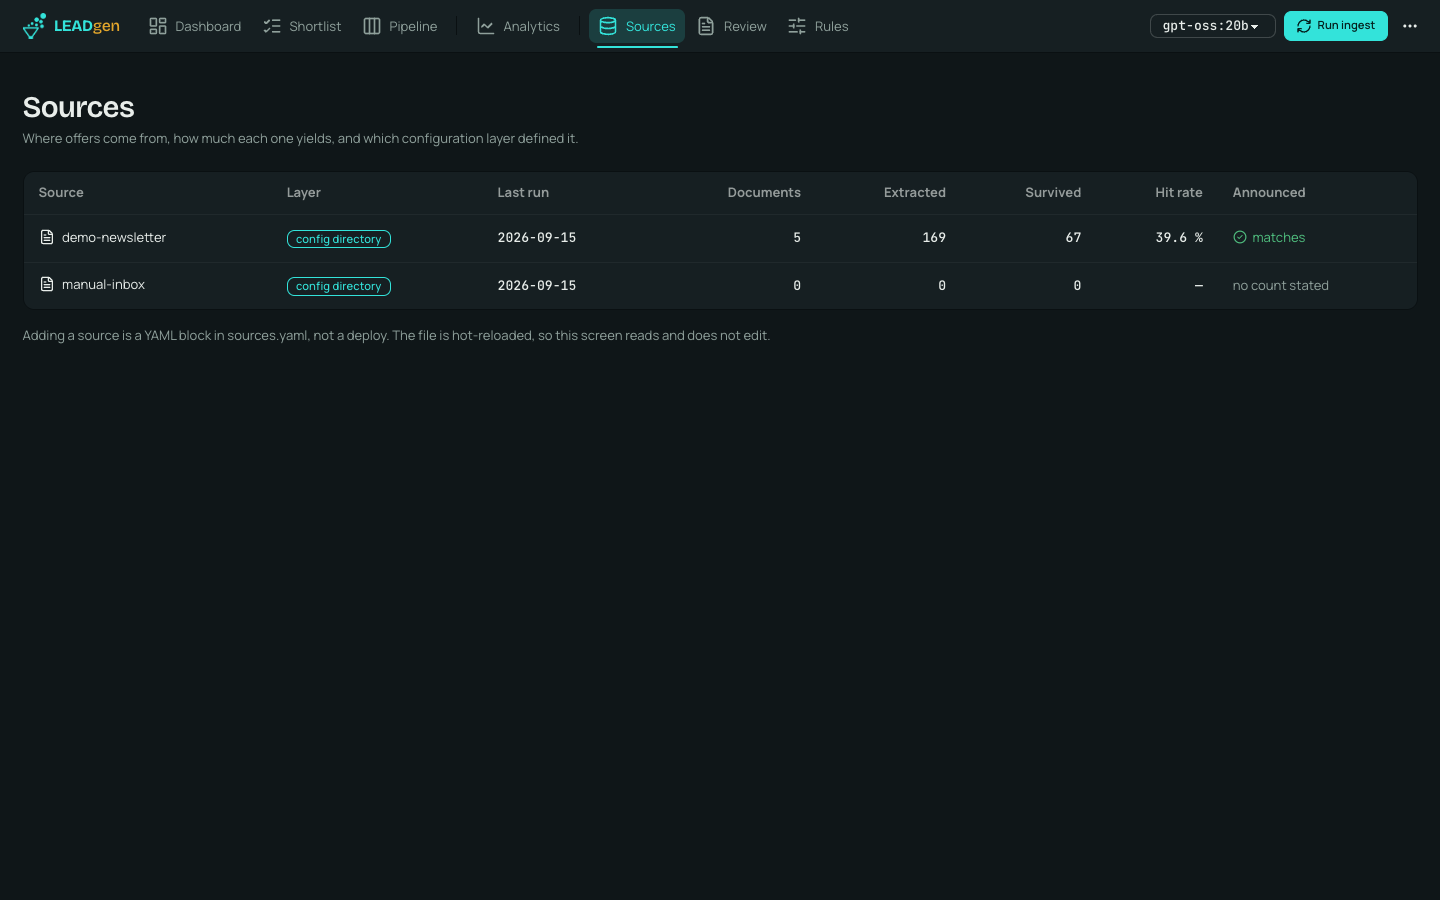
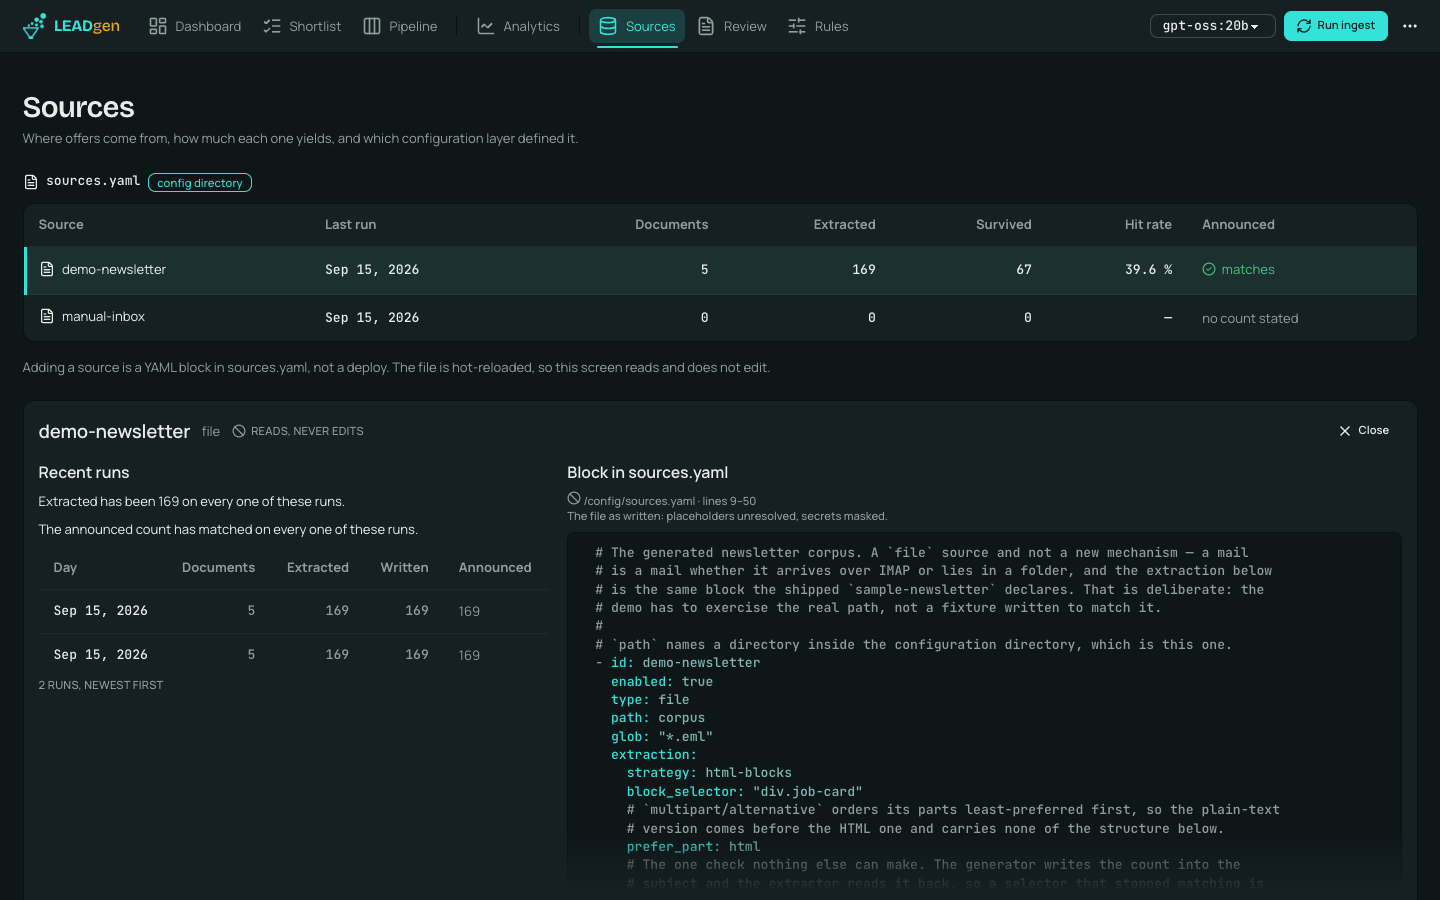
**chore:** Bump version to 0.3.1 and update related files 🏷
- Update application, backend, and frontend version to 0.3.1.
- Adjust tests, changelog, and configurations to align with version update.
- Fix inconsistent run badge rendering by adding proper null handling and annotation in JSON serialization.
- Improve layout responsiveness for the source panel and YAML block display.

diff --git a/frontend/src/app/features/sources/source-panel/source-panel.css b/frontend/src/app/features/sources/source-panel/source-panel.css
@@ -78,6 +78,13 @@
   text-align: right;
 }
 
+/* Measured on the panel: at 30rem the date wrapped to three lines and the Announced badge was
+   clipped at the column's edge. A date is one token. */
+.runs th[scope='row'],
+.runs .num {
+  white-space: nowrap;
+}
+
 /* The one event that gets an edge, on top of the badge that carries the words. Warning *text*
    and never `--color-warning`, which is a fill and fails AA below 24px. */
 .runs .diverged {
@@ -111,6 +118,32 @@
   border-radius: var(--radius-field);
   background-color: var(--color-base-200);
   white-space: pre;
+}
+
+/* `::ng-deep` because the block is injected through `[innerHTML]`: emulated encapsulation
+   stamps its attribute onto the elements the *template* declares, and a node highlight.js
+   wrote afterwards carries none — so `.yaml-text .hljs-attr` would compile to a selector that
+   matches nothing, silently. Measured exactly that way here: the classes were in the markup and
+   every one of them had the plain text's colour.
+
+   Scoped under `:host`, so this is still a component stylesheet and not a global one. The roles
+   are mapped for YAML rather than copied from the Markdown view: there a key and a string are
+   both "content", here the key is the structure and the value is what somebody came to read.
+   No ochre anywhere — it means "this survived the filter", and nothing here survived anything. */
+:host ::ng-deep .yaml-text .hljs-attr {
+  color: var(--color-primary);
+}
+
+:host ::ng-deep .yaml-text .hljs-string,
+:host ::ng-deep .yaml-text .hljs-literal,
+:host ::ng-deep .yaml-text .hljs-number {
+  color: var(--color-secondary);
+}
+
+:host ::ng-deep .yaml-text .hljs-comment,
+:host ::ng-deep .yaml-text .hljs-bullet,
+:host ::ng-deep .yaml-text .hljs-meta {
+  color: var(--lg-muted);
 }
 
 /* A clamp and a mask rather than a truncated string, so the text stays whole in the DOM and

diff --git a/frontend/src/app/features/sources/source-panel/source-panel.html b/frontend/src/app/features/sources/source-panel/source-panel.html
@@ -83,13 +83,15 @@
                   <tr [class.diverged]="row.run.missing !== null && row.run.missing !== 0">
                     <th scope="row" class="type-mono-data">{{ row.run.ranOn | lgDay }}</th>
                     <td class="type-mono-data num text-muted">{{ row.run.documents }}</td>
-                    <td class="type-mono-data num" [class.text-muted]="row.extractedDelta === 0">
+                    <td class="type-mono-data num"
+                        [class.text-muted]="row.extractedDelta === null || row.extractedDelta === 0">
                       {{ row.run.extracted }}
                       @if (row.extractedDelta !== null && row.extractedDelta !== 0) {
                         <span class="run-delta">{{ delta(row.extractedDelta) }}</span>
                       }
                     </td>
-                    <td class="type-mono-data num" [class.text-muted]="row.writtenDelta === 0">
+                    <td class="type-mono-data num"
+                        [class.text-muted]="row.writtenDelta === null || row.writtenDelta === 0">
                       {{ row.run.written }}
                       @if (row.writtenDelta !== null && row.writtenDelta !== 0) {
                         <span class="run-delta">{{ delta(row.writtenDelta) }}</span>

diff --git a/frontend/src/app/app.spec.ts b/frontend/src/app/app.spec.ts
@@ -21,7 +21,7 @@ describe('App', () => {
         const fixture = TestBed.createComponent(App);
         fixture.detectChanges();
 
-      httpMock.expectOne('/api/status').flush({application: 'lead-generation', version: '0.3.0'});
+      httpMock.expectOne('/api/status').flush({application: 'lead-generation', version: '0.3.1'});
         // The header asks for the models it may offer at the same time. Answered with one,
         // which is the shipped state: a single model is not a choice, so the select stays
         // hidden and only the run button is there.
@@ -36,7 +36,7 @@ describe('App', () => {
         await fixture.whenStable();
         fixture.detectChanges();
 
-      expect(fixture.nativeElement.textContent).toContain('lead-generation 0.3.0');
+      expect(fixture.nativeElement.textContent).toContain('lead-generation 0.3.1');
         httpMock.verify();
     });
 });

diff --git a/frontend/src/styles/tokens.css b/frontend/src/styles/tokens.css
@@ -105,10 +105,12 @@
 
   /* The sources panel: a fixed column for a source's run history, and how far its YAML block
      is folded. The history is fixed for the reason `--lg-list-w` is — five numeric columns
-     that would otherwise re-wrap on every monitor — and the clamp decides only *how far*, never
+     that would otherwise re-wrap on every monitor. 34rem and not 30: measured on the panel, at
+     30rem the day wrapped to three lines and the Announced badge was clipped at the column's
+     edge — and the clamp decides only *how far*, never
      *whether*: that is a line count the server sends, because a measured height is suspended in
      a backgrounded tab. */
-  --lg-runs-w: 30rem;
+  --lg-runs-w: 34rem;
   --lg-yaml-clamp: 24rem;
 
     /* Selection in a list. Not the accent: ochre means "this survived the filter" and nothing

diff --git a/frontend/src/app/features/sources/source-panel/source-panel.spec.ts b/frontend/src/app/features/sources/source-panel/source-panel.spec.ts
@@ -94,6 +94,13 @@ describe('SourcePanel', () => {
 
     expect(deltas.map((delta) => delta.textContent?.trim())).toContain('+12');
     expect(fixture.nativeElement.querySelectorAll('.runs tbody tr')).toHaveLength(3);
+
+    // The oldest row in the window has nothing before it, so it is not a change either — the
+    // edge of what was fetched is not an event, and ink there would read as one.
+    const cells: HTMLElement[] = Array.from(
+      fixture.nativeElement.querySelectorAll('.runs tbody tr:last-child td'),
+    );
+    expect(cells.filter((cell) => cell.classList.contains('text-muted')).length).toBeGreaterThan(1);
   });
 
   it('marks a run where the announced count disagreed, with the badge the table already uses', () => {

diff --git a/backend/src/test/java/de/codeministry/leadgen/config/SourceDetailServiceTest.java b/backend/src/test/java/de/codeministry/leadgen/config/SourceDetailServiceTest.java
@@ -23,6 +23,7 @@ import org.testcontainers.junit.jupiter.Testcontainers;
 import java.time.LocalDate;
 
 import static org.assertj.core.api.Assertions.assertThat;
+import static org.junit.jupiter.api.Assertions.assertDoesNotThrow;
 
 /**
  * One source, opened: what defines it, and when its numbers last moved.
@@ -45,6 +46,16 @@ class SourceDetailServiceTest {
 
     @Autowired
     private JdbcTemplate jdbc;
+
+    /**
+     * Built here rather than injected: this context has no `ObjectMapper` bean, and what is
+     * under test is the record's own annotation rather than anybody's mapper configuration.
+     * The time module is what a bare mapper is missing.
+     */
+    private final com.fasterxml.jackson.databind.ObjectMapper mapper =
+        com.fasterxml.jackson.databind.json.JsonMapper.builder()
+            .addModule(new com.fasterxml.jackson.datatype.jsr310.JavaTimeModule())
+            .build();
 
     @BeforeEach
     void clean() {
@@ -155,6 +166,24 @@ class SourceDetailServiceTest {
         assertThat(run.extracted()).isEqualTo(1289);
         assertThat(run.written()).isEqualTo(1280);
         assertThat(run.missing()).isZero();
+    }
+
+    @Test
+    void putsTheMissingCountOnTheWireAndNotOnlyInJava() {
+        // Jackson builds a record's JSON from its components, and `missing()` is a method — so
+        // it was absent from the answer, the browser read `undefined`, and the panel painted an
+        // "undefined missing" badge on every run where the count actually matched. Every
+        // hand-written fixture had supplied the field, which is exactly what a fixture cannot
+        // check. The assertion is therefore on the serialised form.
+        long id = source("manual-inbox");
+        ran(id, "2026-09-14", 5, 157, 157, 169);
+
+        var detail = details.detail("manual-inbox", 30).orElseThrow();
+        // The application's own mapper and not a bare one: what is under test is the JSON this
+        // service actually answers with, and a mapper without the JSR-310 module is not it.
+        String json = assertDoesNotThrow(() -> mapper.writeValueAsString(detail.runs().getFirst()));
+
+        assertThat(json).contains("\"missing\":12");
     }
 
     @Test

diff --git a/backend/src/main/java/de/codeministry/leadgen/config/SourceRun.java b/backend/src/main/java/de/codeministry/leadgen/config/SourceRun.java
@@ -34,7 +34,15 @@ public record SourceRun(LocalDate ranOn, int documents, int extracted, int writt
      * How far {@code announced} and {@code extracted} are apart, or null where there is no
      * count to check against. Computed here rather than in the browser, so the badge in the
      * history and the badge in the table row are the same number from the same place.
+     *
+     * <p><b>{@code @JsonProperty} is load-bearing.</b> Jackson serialises a record from its
+     * components, and a no-argument method that is not a bean getter is not one of them — so
+     * this was simply absent from the JSON, the browser read `undefined`, and the panel painted
+     * an "undefined missing" badge on every run where the count matched. Found in a screenshot,
+     * not in a test: every fixture supplied the field by hand, which is the one thing a
+     * hand-written fixture cannot check.
      */
+    @com.fasterxml.jackson.annotation.JsonProperty("missing")
     public Integer missing() {
         return announced == null ? null : announced - extracted;
     }

diff --git a/backend/src/test/java/de/codeministry/leadgen/config/SourceDetailMaskingTest.java b/backend/src/test/java/de/codeministry/leadgen/config/SourceDetailMaskingTest.java
@@ -81,13 +81,18 @@ class SourceDetailMaskingTest {
     @Autowired
     private SourceDetailService details;
 
+    /**
+     * A mapper of its own: this context has no bean, and the assertion is about the fields.
+     */
+    private final ObjectMapper mapper = new ObjectMapper();
+
     @Test
     void theCredentialNeverLeavesTheMachine() throws Exception {
         var detail = details.detail("sample-newsletter", 30).orElseThrow();
 
         // Serialised, because the assertion worth making is about the whole answer and not
         // about the field somebody remembered to check.
-        String json = new ObjectMapper().writeValueAsString(detail);
+        String json = mapper.writeValueAsString(detail);
 
         assertThat(json).doesNotContain(PASSWORD).doesNotContain(MAILBOX);
         assertThat(detail.connection().text()).contains("password: " + Secrets.MASK);

diff --git a/backend/src/test/java/de/codeministry/leadgen/web/StatusControllerTest.java b/backend/src/test/java/de/codeministry/leadgen/web/StatusControllerTest.java
@@ -19,7 +19,7 @@ import org.springframework.test.web.servlet.assertj.MockMvcTester;
 // into the `spring-boot-webmvc-test` module. The old import compiles against
 // Boot 3 and simply does not exist here.
 @WebMvcTest(StatusController.class)
-@TestPropertySource(properties = {"spring.application.name=lead-generation", "leadgen.version=0.3.0"})
+@TestPropertySource(properties = {"spring.application.name=lead-generation", "leadgen.version=0.3.1"})
 class StatusControllerTest {
 
     @Autowired
@@ -30,6 +30,6 @@ class StatusControllerTest {
         Assertions.assertThat(mvc.get().uri("/api/status"))
                 .hasStatusOk()
                 .bodyJson()
-            .isEqualTo("{\"application\":\"lead-generation\",\"version\":\"0.3.0\"}");
+            .isEqualTo("{\"application\":\"lead-generation\",\"version\":\"0.3.1\"}");
     }
 }

diff --git a/backend/src/main/java/de/codeministry/leadgen/web/StatusController.java b/backend/src/main/java/de/codeministry/leadgen/web/StatusController.java
@@ -28,7 +28,7 @@ public class StatusController {
     // generate a constructor without them.
     StatusController(
             @Value("${spring.application.name}") String application,
-            @Value("${leadgen.version:0.3.0}") String version) {
+            @Value("${leadgen.version:0.3.1}") String version) {
         this.application = application;
         this.version = version;
     }

diff --git a/CHANGELOG.md b/CHANGELOG.md
@@ -9,6 +9,10 @@ may change in any release. See the status note in the README.
 
 ## [Unreleased]
 
+## [0.3.1] — 2026-09-16
+
+A release about the one screen that exists to explain a source, and could not.
+
 ### Added
 
 - **A source can be opened, and it shows the block of `sources.yaml` that defines it.** The
@@ -67,6 +71,20 @@ may change in any release. See the status note in the README.
   to appear on the other after a navigation.
 - **The docs placed the Markdown upload on the Sources screen.** It moved to Review with the
   split views and the endpoint kept its path, which is what let the two sentences drift apart.
+
+### Upgrade notes
+
+- **`GET /api/sources` changed shape.** It answers `{file, layer, sources}` instead of a bare
+  array, and `layer` has left the row. Anything reading that endpoint by hand needs the one
+  extra hop; the browser in this repository was changed with it.
+- **No migration.** The run history reads `source_run`, which has been append-only since `V9`,
+  and the block comes from the file on disk. Nothing is written by any of this.
+- **A source's block is visible in the browser now**, so it is worth knowing what that shows:
+  the file as written, with placeholders unresolved and values under secret-looking keys
+  masked. Masking is by key name and covers credentials, not identity — a real block still
+  names your portal, your mailbox folder and your paths. `security.auth` still has one
+  implemented value, so what stands in front of that endpoint is `server.address`, which the
+  container overrides.
 
 ## [0.3.0] — 2026-09-15
 
@@ -541,7 +559,8 @@ Found while building the demo, all of them in paths only a container exercises:
   left six.
 - The shortlist card printed the description's Markdown syntax in its teaser.
 
-[Unreleased]: https://github.com/codeministry/leadgen/compare/v0.3.0...HEAD
+[Unreleased]: https://github.com/codeministry/leadgen/compare/v0.3.1...HEAD
+[0.3.1]: https://github.com/codeministry/leadgen/releases/tag/v0.3.1
 [0.3.0]: https://github.com/codeministry/leadgen/releases/tag/v0.3.0
 [0.2.1]: https://github.com/codeministry/leadgen/releases/tag/v0.2.1
 [0.2.0]: https://github.com/codeministry/leadgen/releases/tag/v0.2.0
